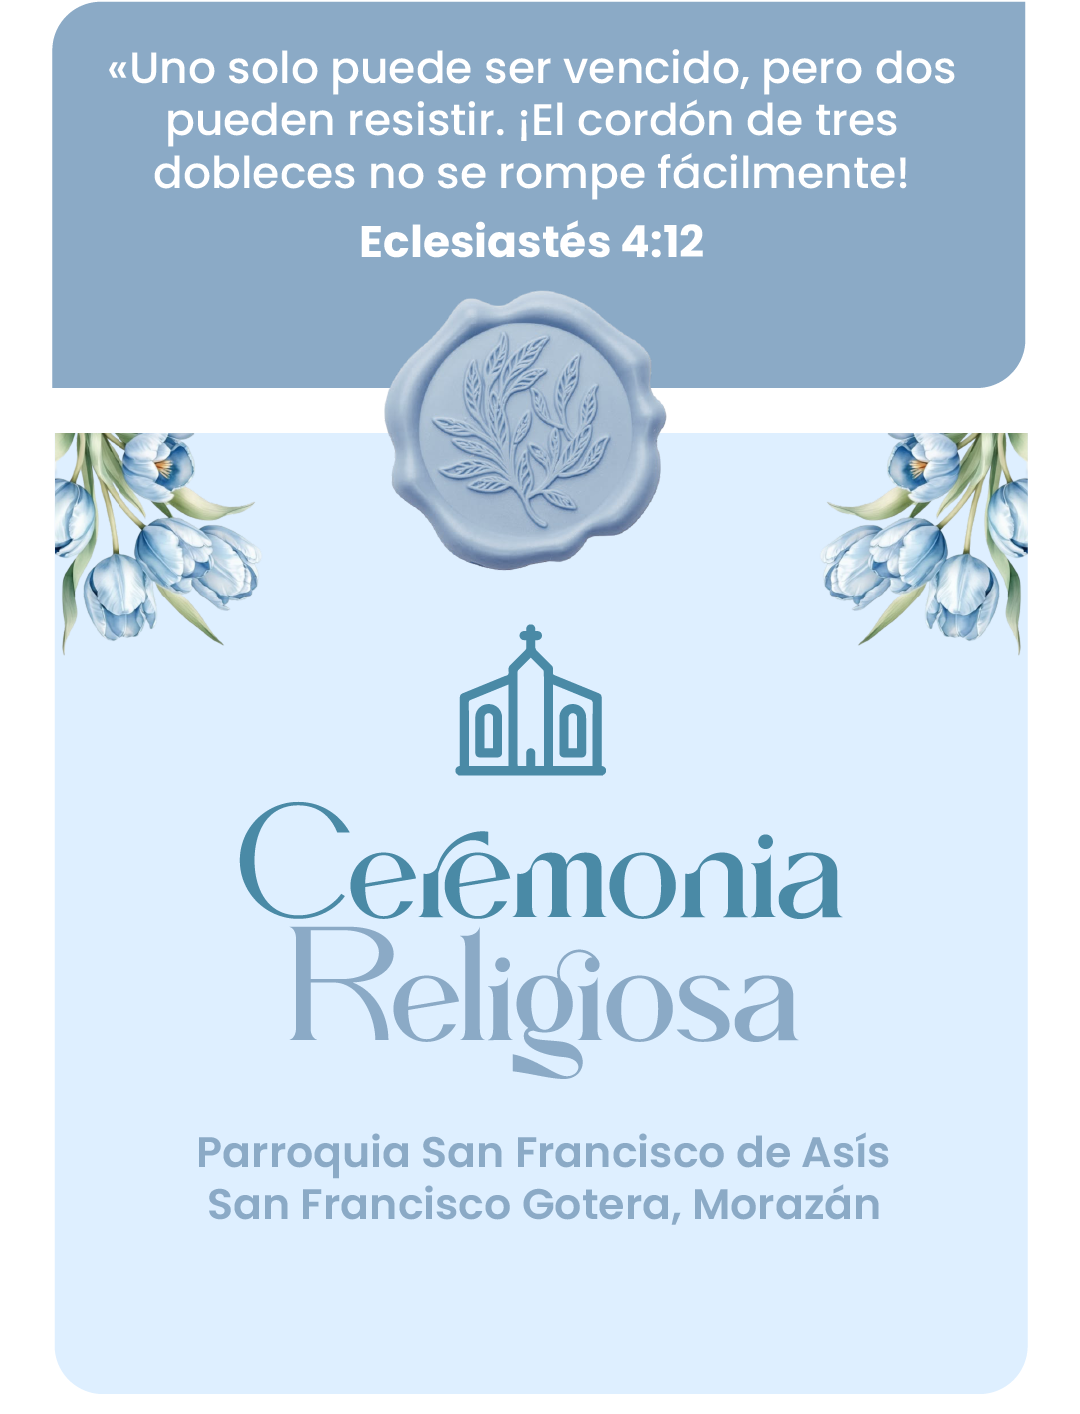
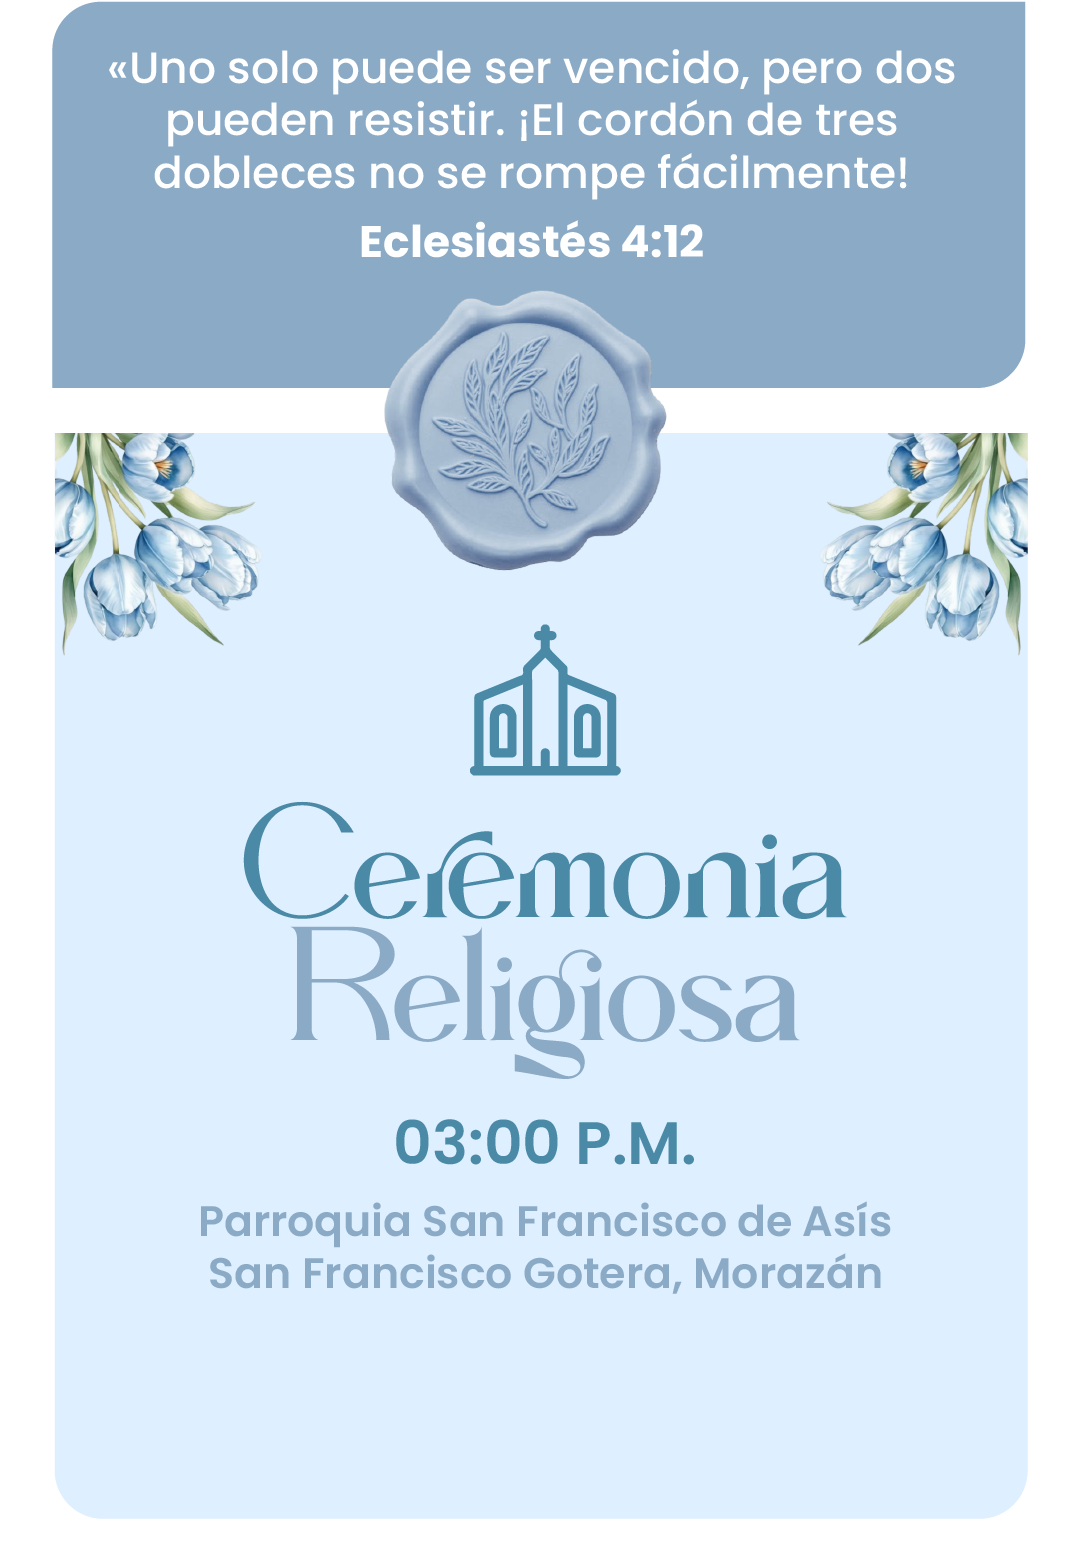
Añadirakjskjasdsa

Changed region(s): [[0.0306, 0.0311, 0.9778, 0.8713], [0.0917, 0.9646, 0.9167, 0.9958], [0.2444, 0.4979, 0.3056, 0.529]]

diff --git a/style.css b/style.css
@@ -195,7 +195,7 @@ body {
 ========================================= */
 
 .btn1 {
-    top: 89%;
+    top: 92%;
     width: 65%;
 }
 
